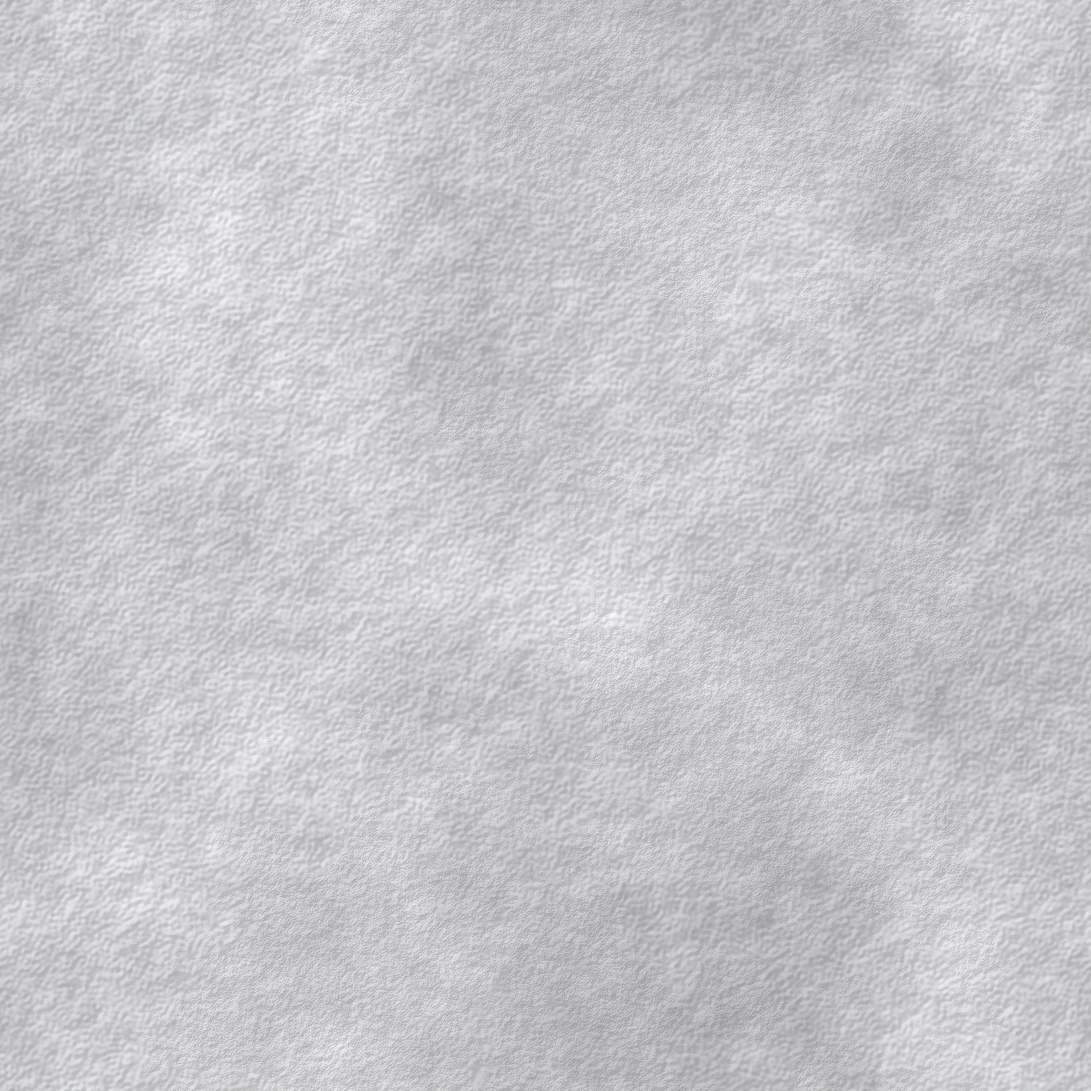
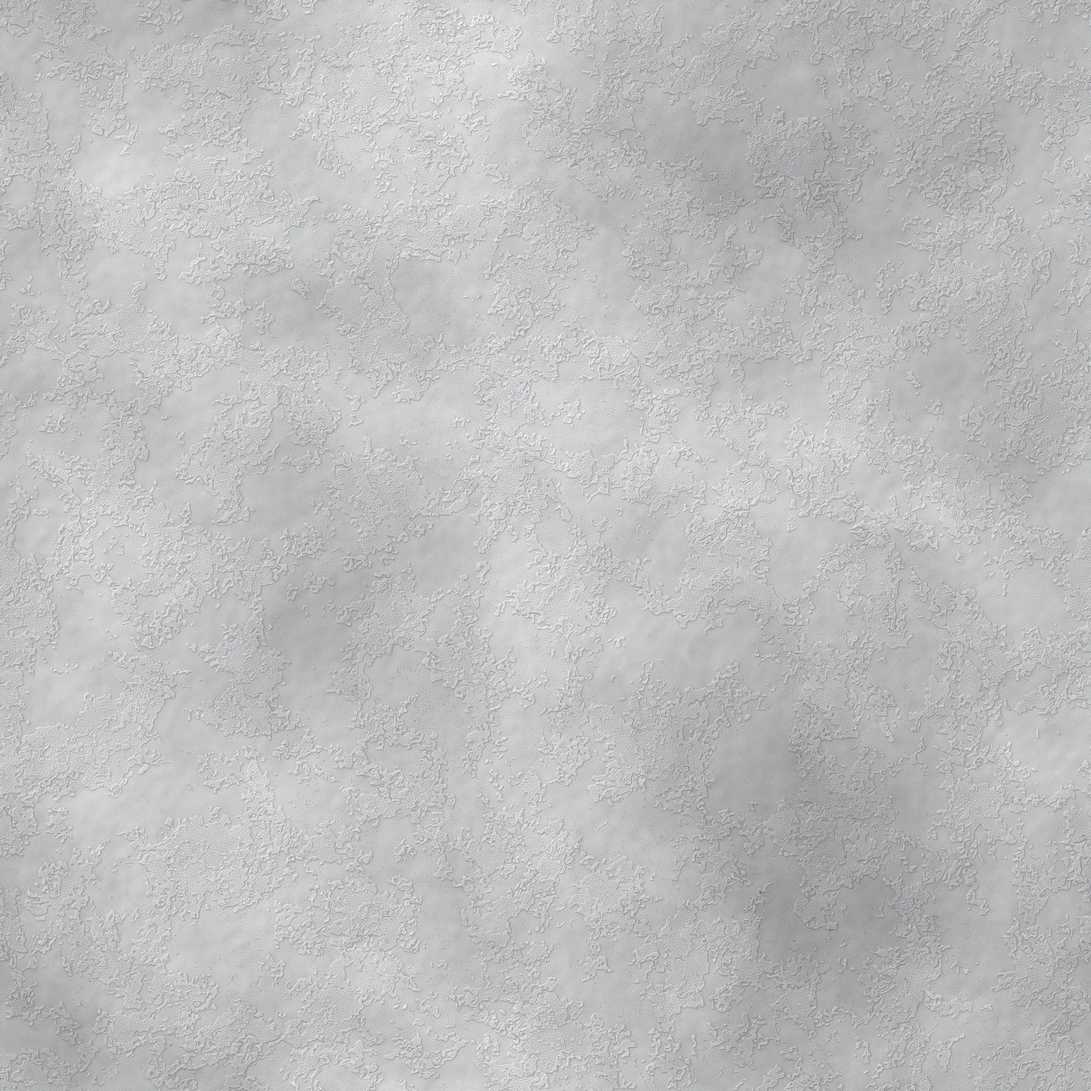
Design Mural: concreto más realista (costra con borde de llana, sombras en hendiduras, fisuras)

diff --git a/app/templates/design_mural.html b/app/templates/design_mural.html
@@ -2,7 +2,7 @@
 {% block titulo %}Mural{% endblock %}
 {% block contenido %}
 <style>
-  /* Mural ocupa toda la pantalla bajo la barra. Fondo: concreto industrial generado por computador
+  /* Mural ocupa toda la pantalla bajo la barra. Fondo: concreto industrial generado por computador (scratchpad concreto2.py: capas de mortero con borde de llana, oclusión y fisuras)
      (static/design/mural/fondo.webp, 4096×4096, se repite sin costuras). Se muestra a 2048 px para que cada píxel
      de la imagen caiga en un píxel real en pantallas retina/4K: se ve nítido a cualquier tamaño. */
   main:has(#muRaiz) { padding:0 !important; max-width:none !important; }
